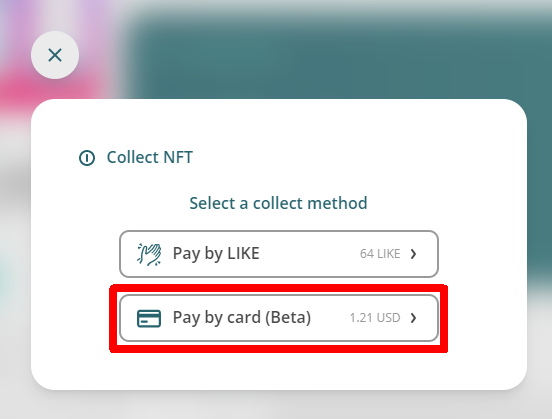
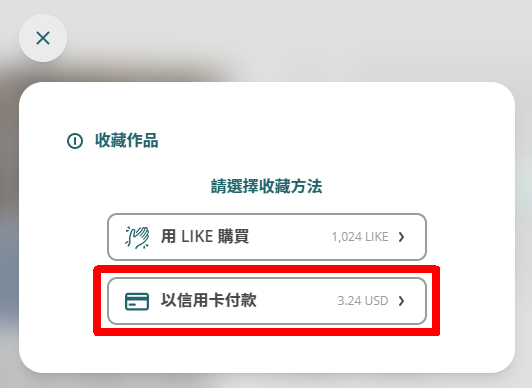
GitBook: [#4199] 收集 Writing NFT

diff --git a/general-guides/writing-nft/collect-writing-nft.md b/general-guides/writing-nft/collect-writing-nft.md
@@ -34,7 +34,7 @@ description: 如何收集 Writing NFT
 
 ### 步驟一：信用卡付款
 
-在彈出視窗點「Pay by card (Beta)」。
+在彈出視窗點「以信用卡付款」。
 
 <figure><img src="../../.gitbook/assets/pay by card 1.png" alt=""><figcaption></figcaption></figure>
 
@@ -60,9 +60,9 @@ description: 如何收集 Writing NFT
 
 ### 步驟三：查看已購買的 Writing NFT
 
-回到自己的 「[My Dashboard](https://liker.land/dashboard)」即可查看已購買的 NFT。
+回到[我的書架](https://liker.land/dashboard?tab=collected)即可查看已購買的 NFT。
 
-<figure><img src="../../.gitbook/assets/Buy NFT 12.png" alt=""><figcaption></figcaption></figure>
+<figure><img src="../../.gitbook/assets/NFT Portfolio.png" alt=""><figcaption></figcaption></figure>
 
 ## 已擁有加密錢包並以桌面電腦收集 Writing NFT
 
